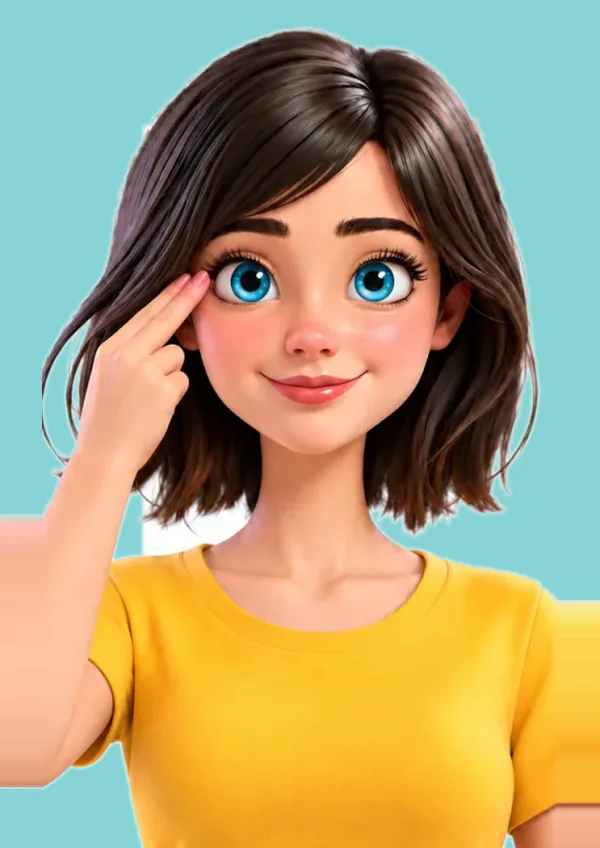
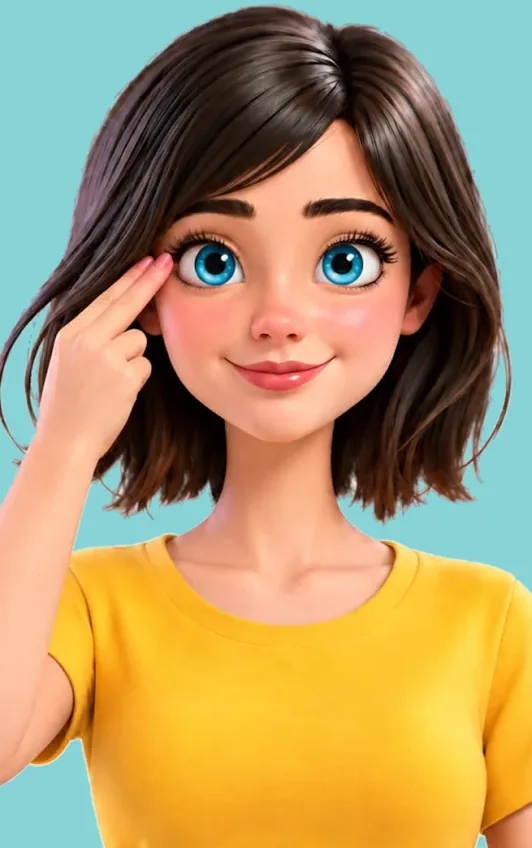
Overzichtsfoto's wenkbrauw/naast oog: witte achtergrond volledig turquoise

diff --git a/kloppunten.html b/kloppunten.html
@@ -177,7 +177,7 @@
                     <h3>Wenkbrauw</h3>
                     <p>De binnenkant van je wenkbrauw, waar deze begint bij je neus. Dit punt bevindt zich net boven de binnenste ooghoek.</p>
                 </div>
-                <img src="avatar/wenkbrauw-overzicht.webp" alt="Wenkbrauw punt" width="600" height="848" loading="lazy" class="tapping-image">
+                <img src="avatar/wenkbrauw-overzicht.webp?v=2" alt="Wenkbrauw punt" width="532" height="848" loading="lazy" class="tapping-image">
             </div>
 
             <div class="tapping-point">
@@ -185,7 +185,7 @@
                     <h3>Zijkant van het oog</h3>
                     <p>Op het bot aan de buitenkant van je oog.</p>
                 </div>
-                <img src="avatar/naast-oog-overzicht.webp" alt="Zijkant van het oog" width="600" height="848" loading="lazy" class="tapping-image">
+                <img src="avatar/naast-oog-overzicht.webp?v=2" alt="Zijkant van het oog" width="532" height="848" loading="lazy" class="tapping-image">
             </div>
 
             <div class="tapping-point">

diff --git a/sw.js b/sw.js
@@ -1,6 +1,6 @@
 // Service worker voor EFT met Paula
 // Verhoog CACHE_VERSION bij elke wijziging van de app-bestanden.
-const CACHE_VERSION = 'v16';
+const CACHE_VERSION = 'v17';
 const CACHE_NAME = 'eft-paula-' + CACHE_VERSION;
 
 const APP_SHELL = [
